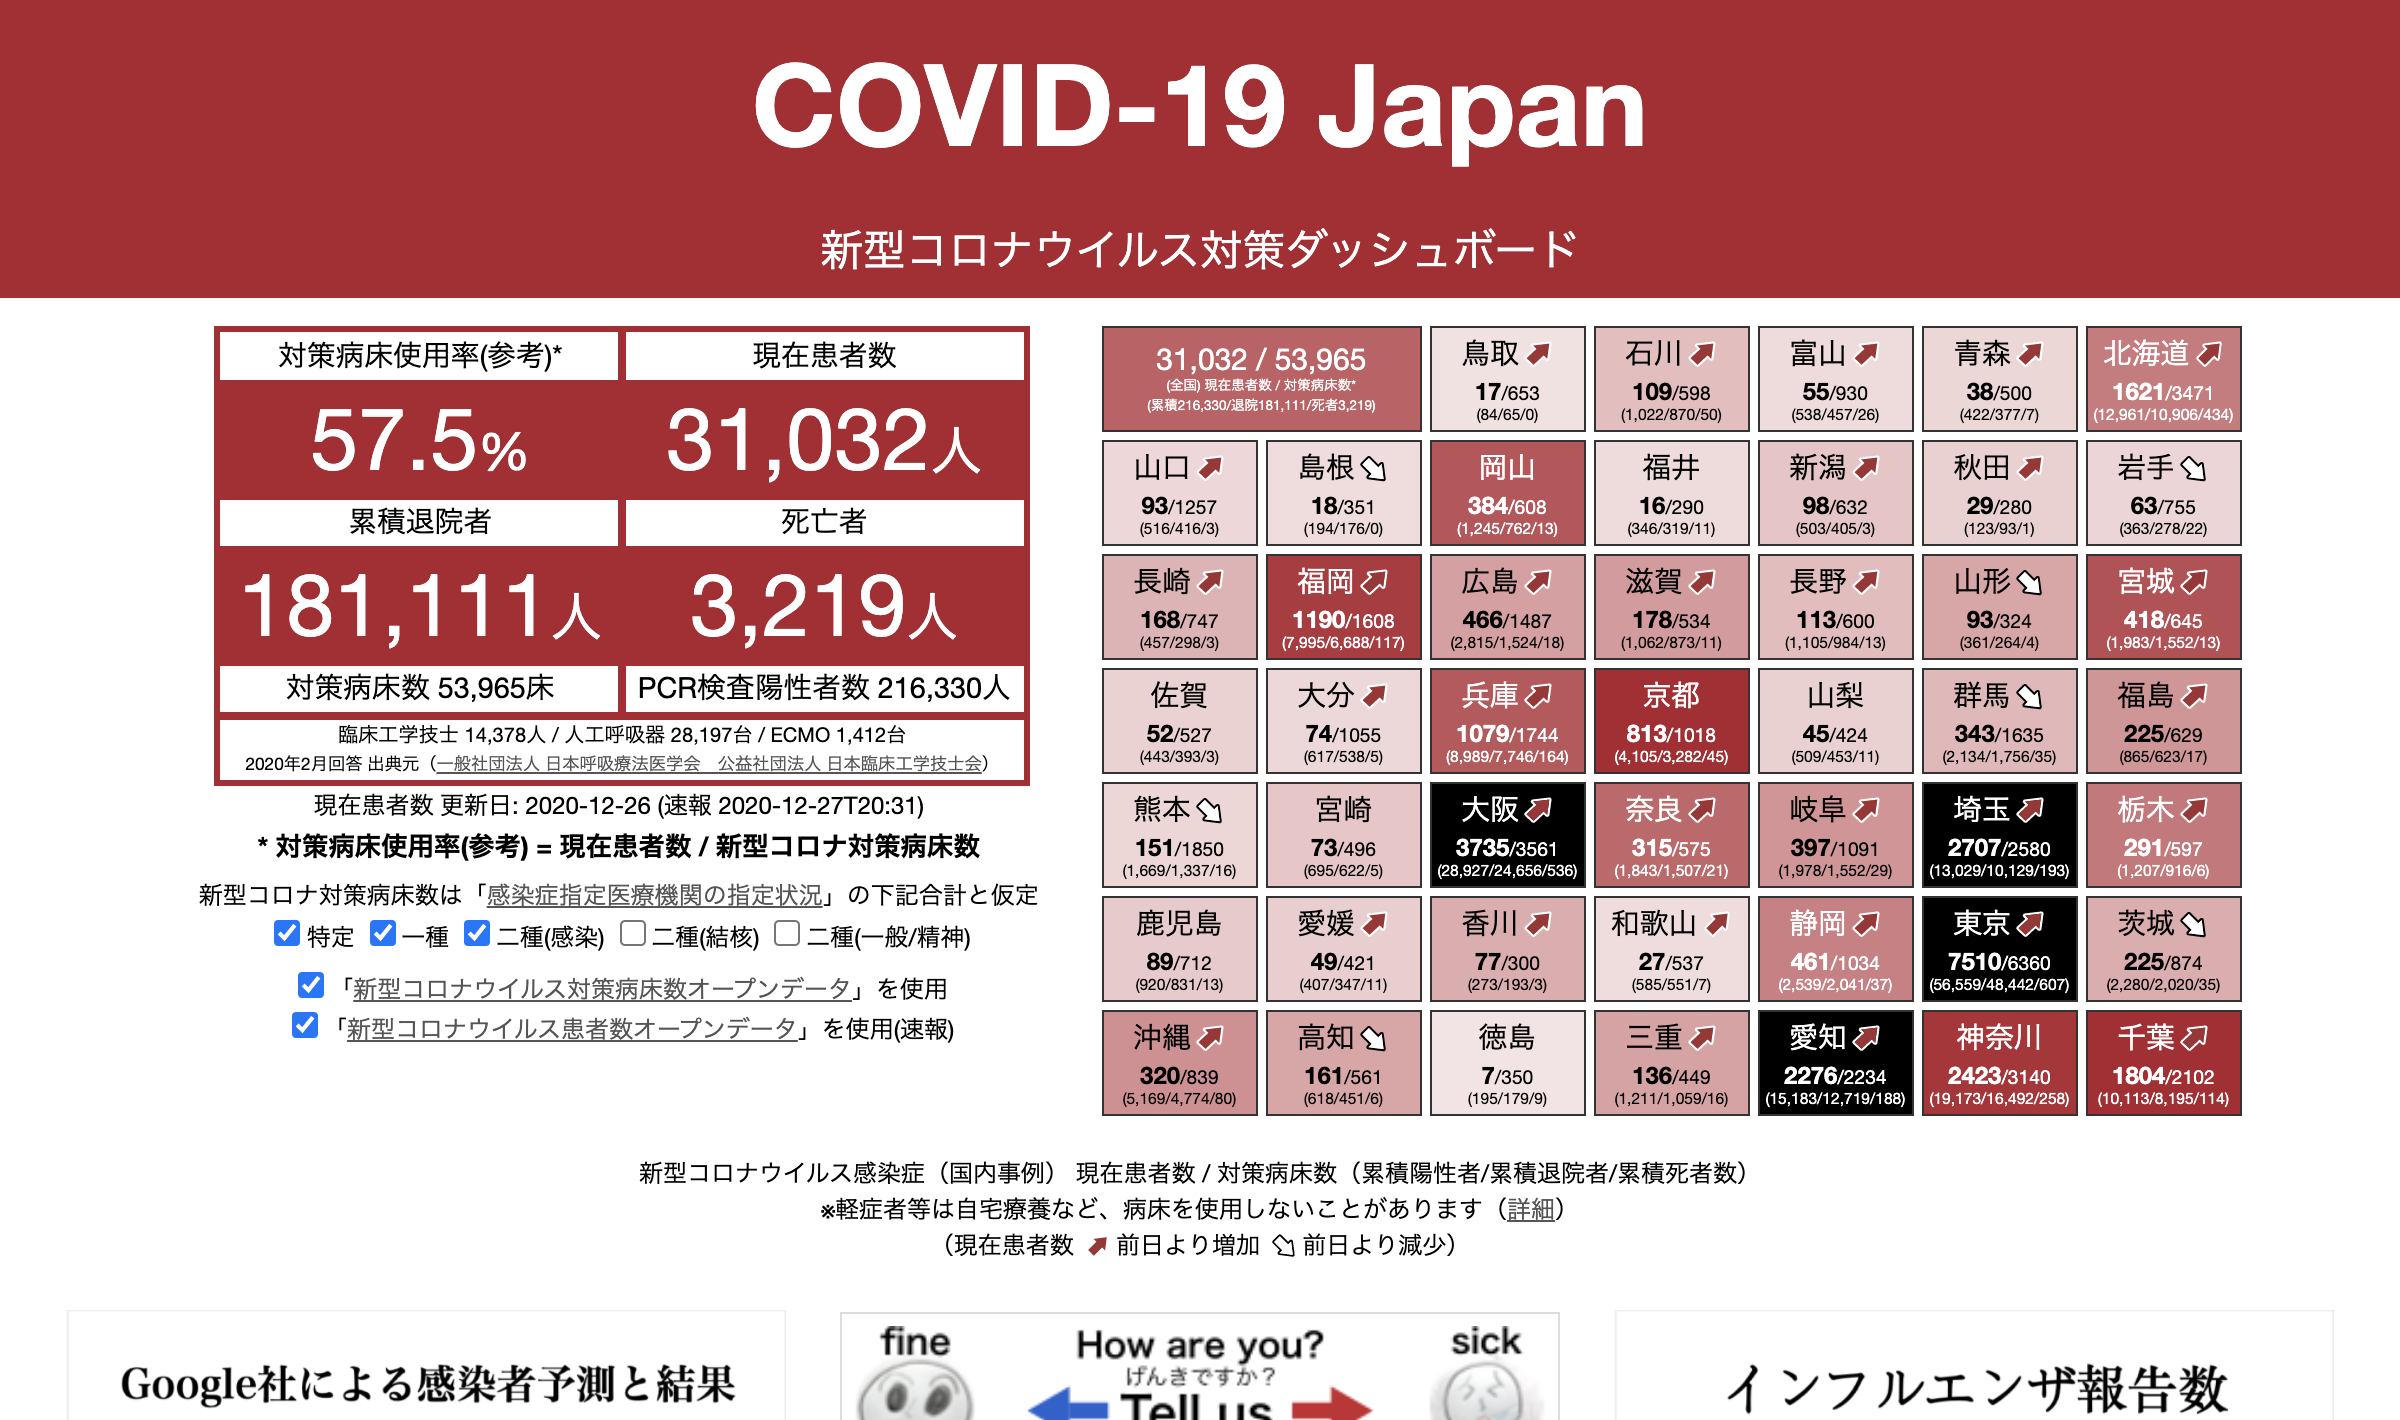
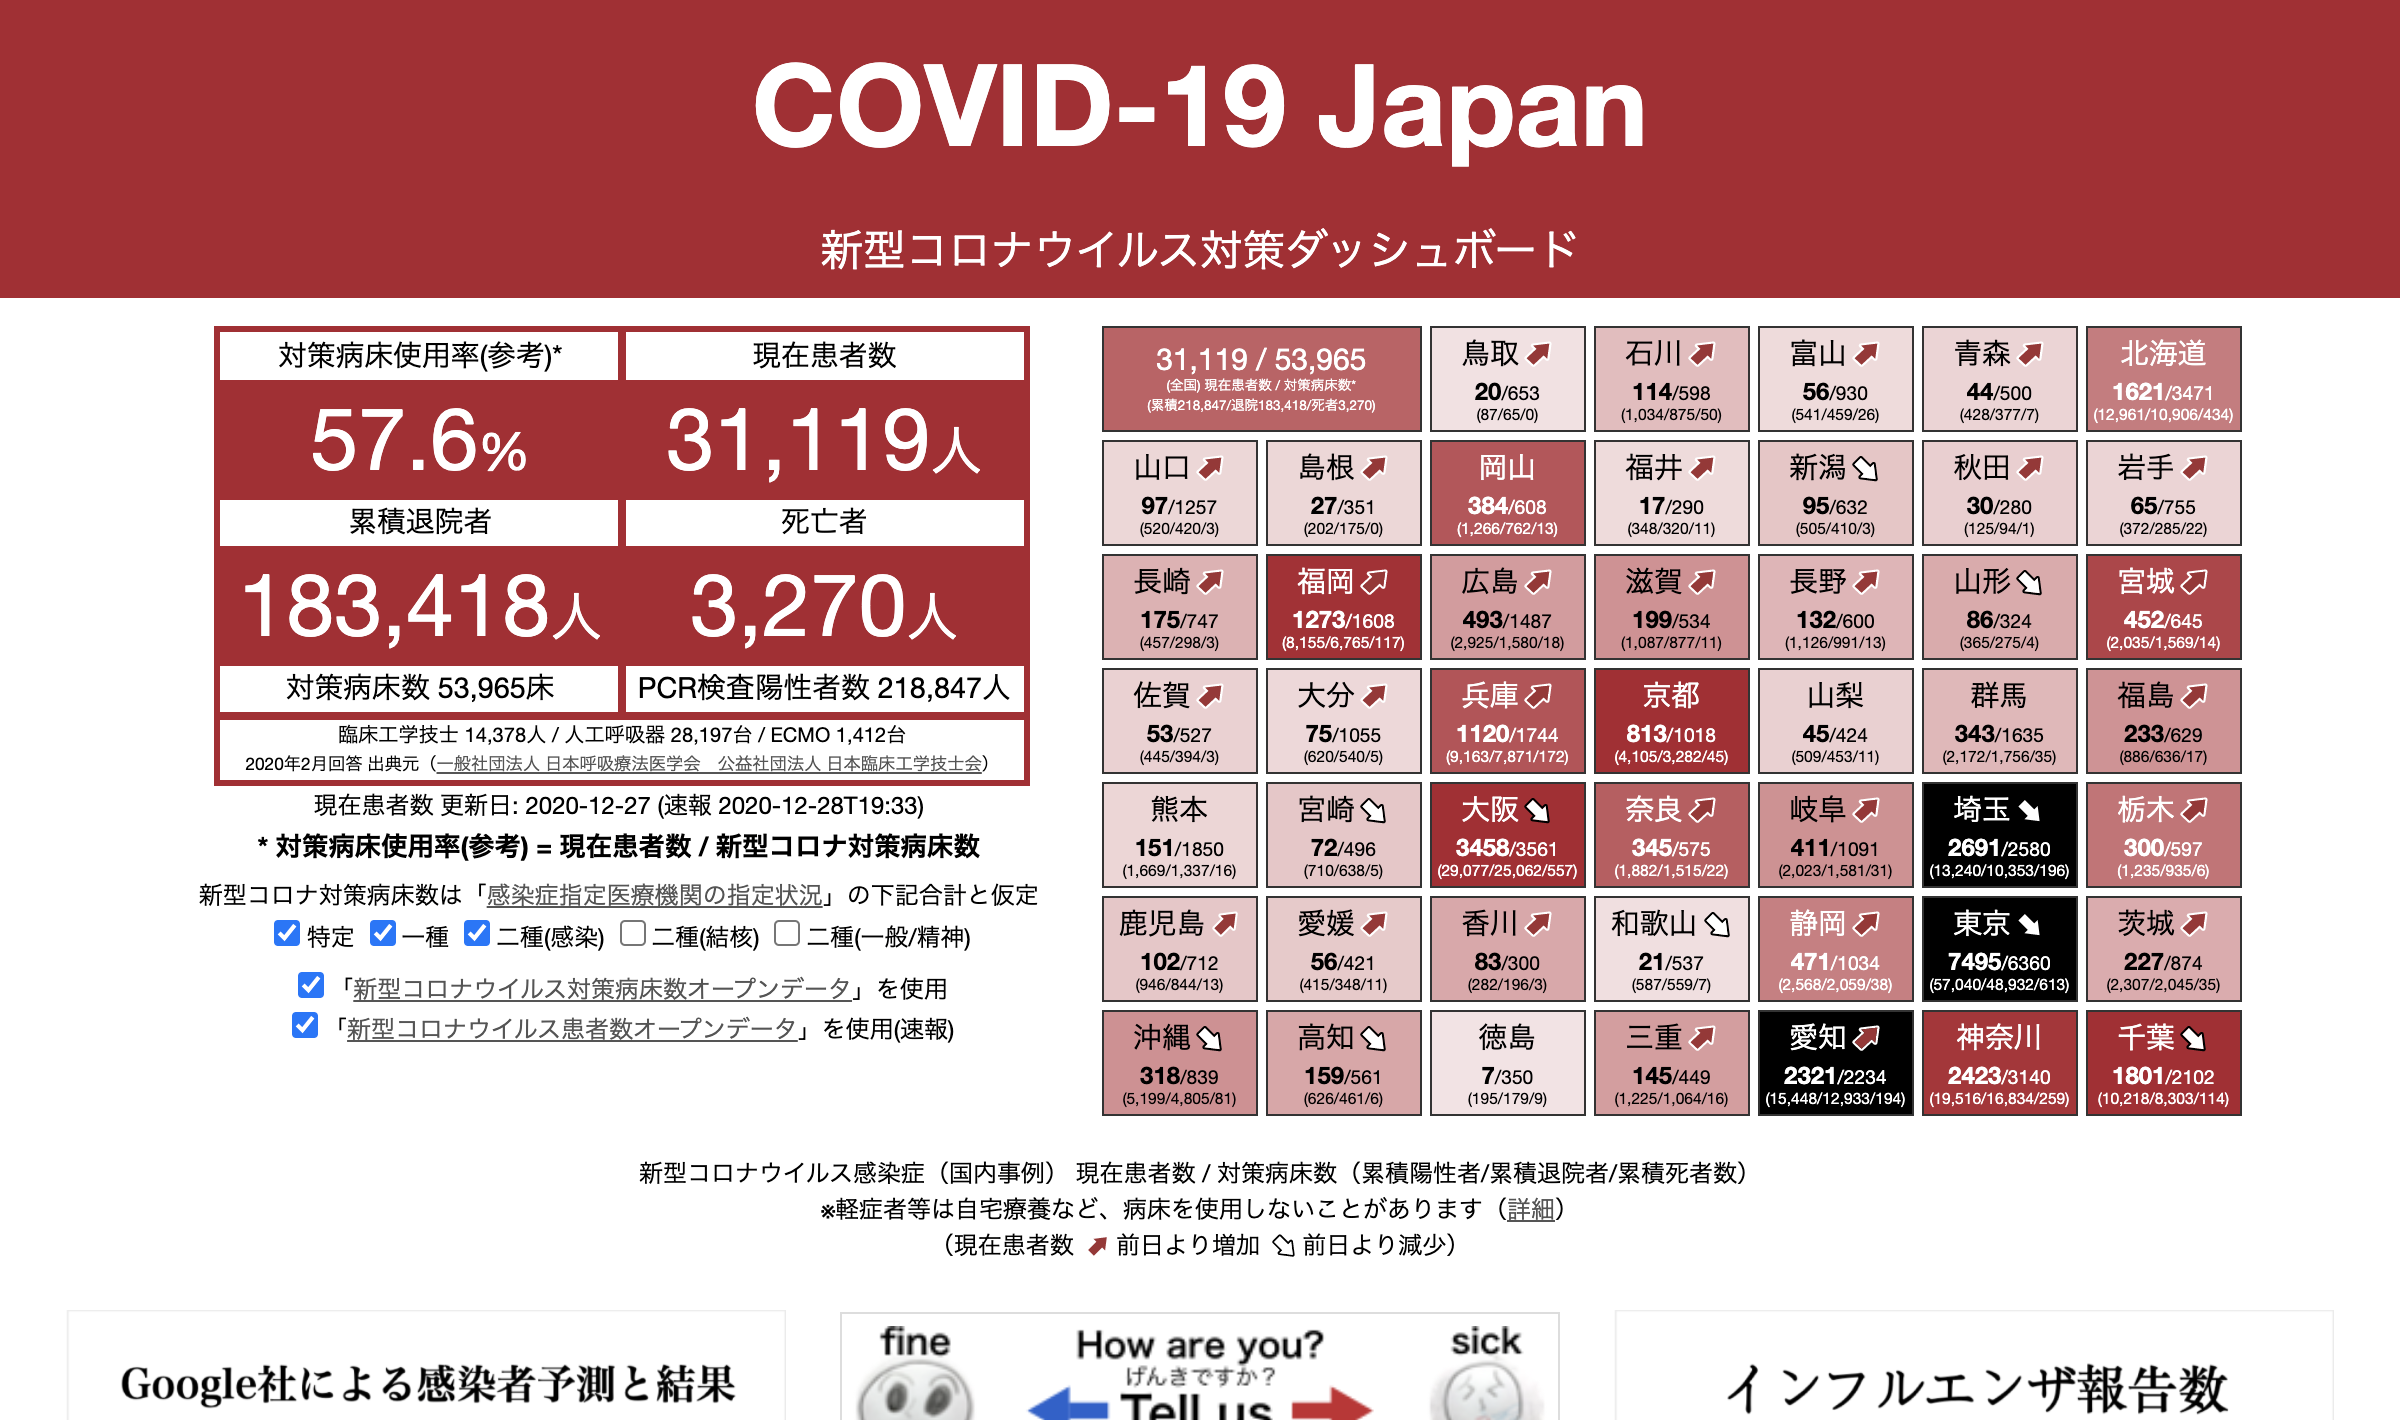
update data

diff --git a/index.html b/index.html
@@ -20,8 +20,8 @@ gtag('config', 'UA-162141832-1')
 <link rel="apple-touch-icon" href="covid19japan-leargeicon.png"/>
 <meta name="msapplication-square310x310logo" content="covid19japan-leargeicon.png"/>
 <meta name="twitter:card" content="summary_large_image"/>
-<meta property="og:image"  content="https://www.stopcovid19.jp/ogp/covid19japan_ogp_20201227220318.png"/>
-<meta name="twitter:image" content="https://www.stopcovid19.jp/ogp/covid19japan_ogp_20201227220318.png"/>
+<meta property="og:image"  content="https://www.stopcovid19.jp/ogp/covid19japan_ogp_20201228221637.png"/>
+<meta name="twitter:image" content="https://www.stopcovid19.jp/ogp/covid19japan_ogp_20201228221637.png"/>
 
 <meta name="viewport" content="width=device-width, initial-scale=1.0"/>
 <meta name="format-detection" content="telephone=no"/>
